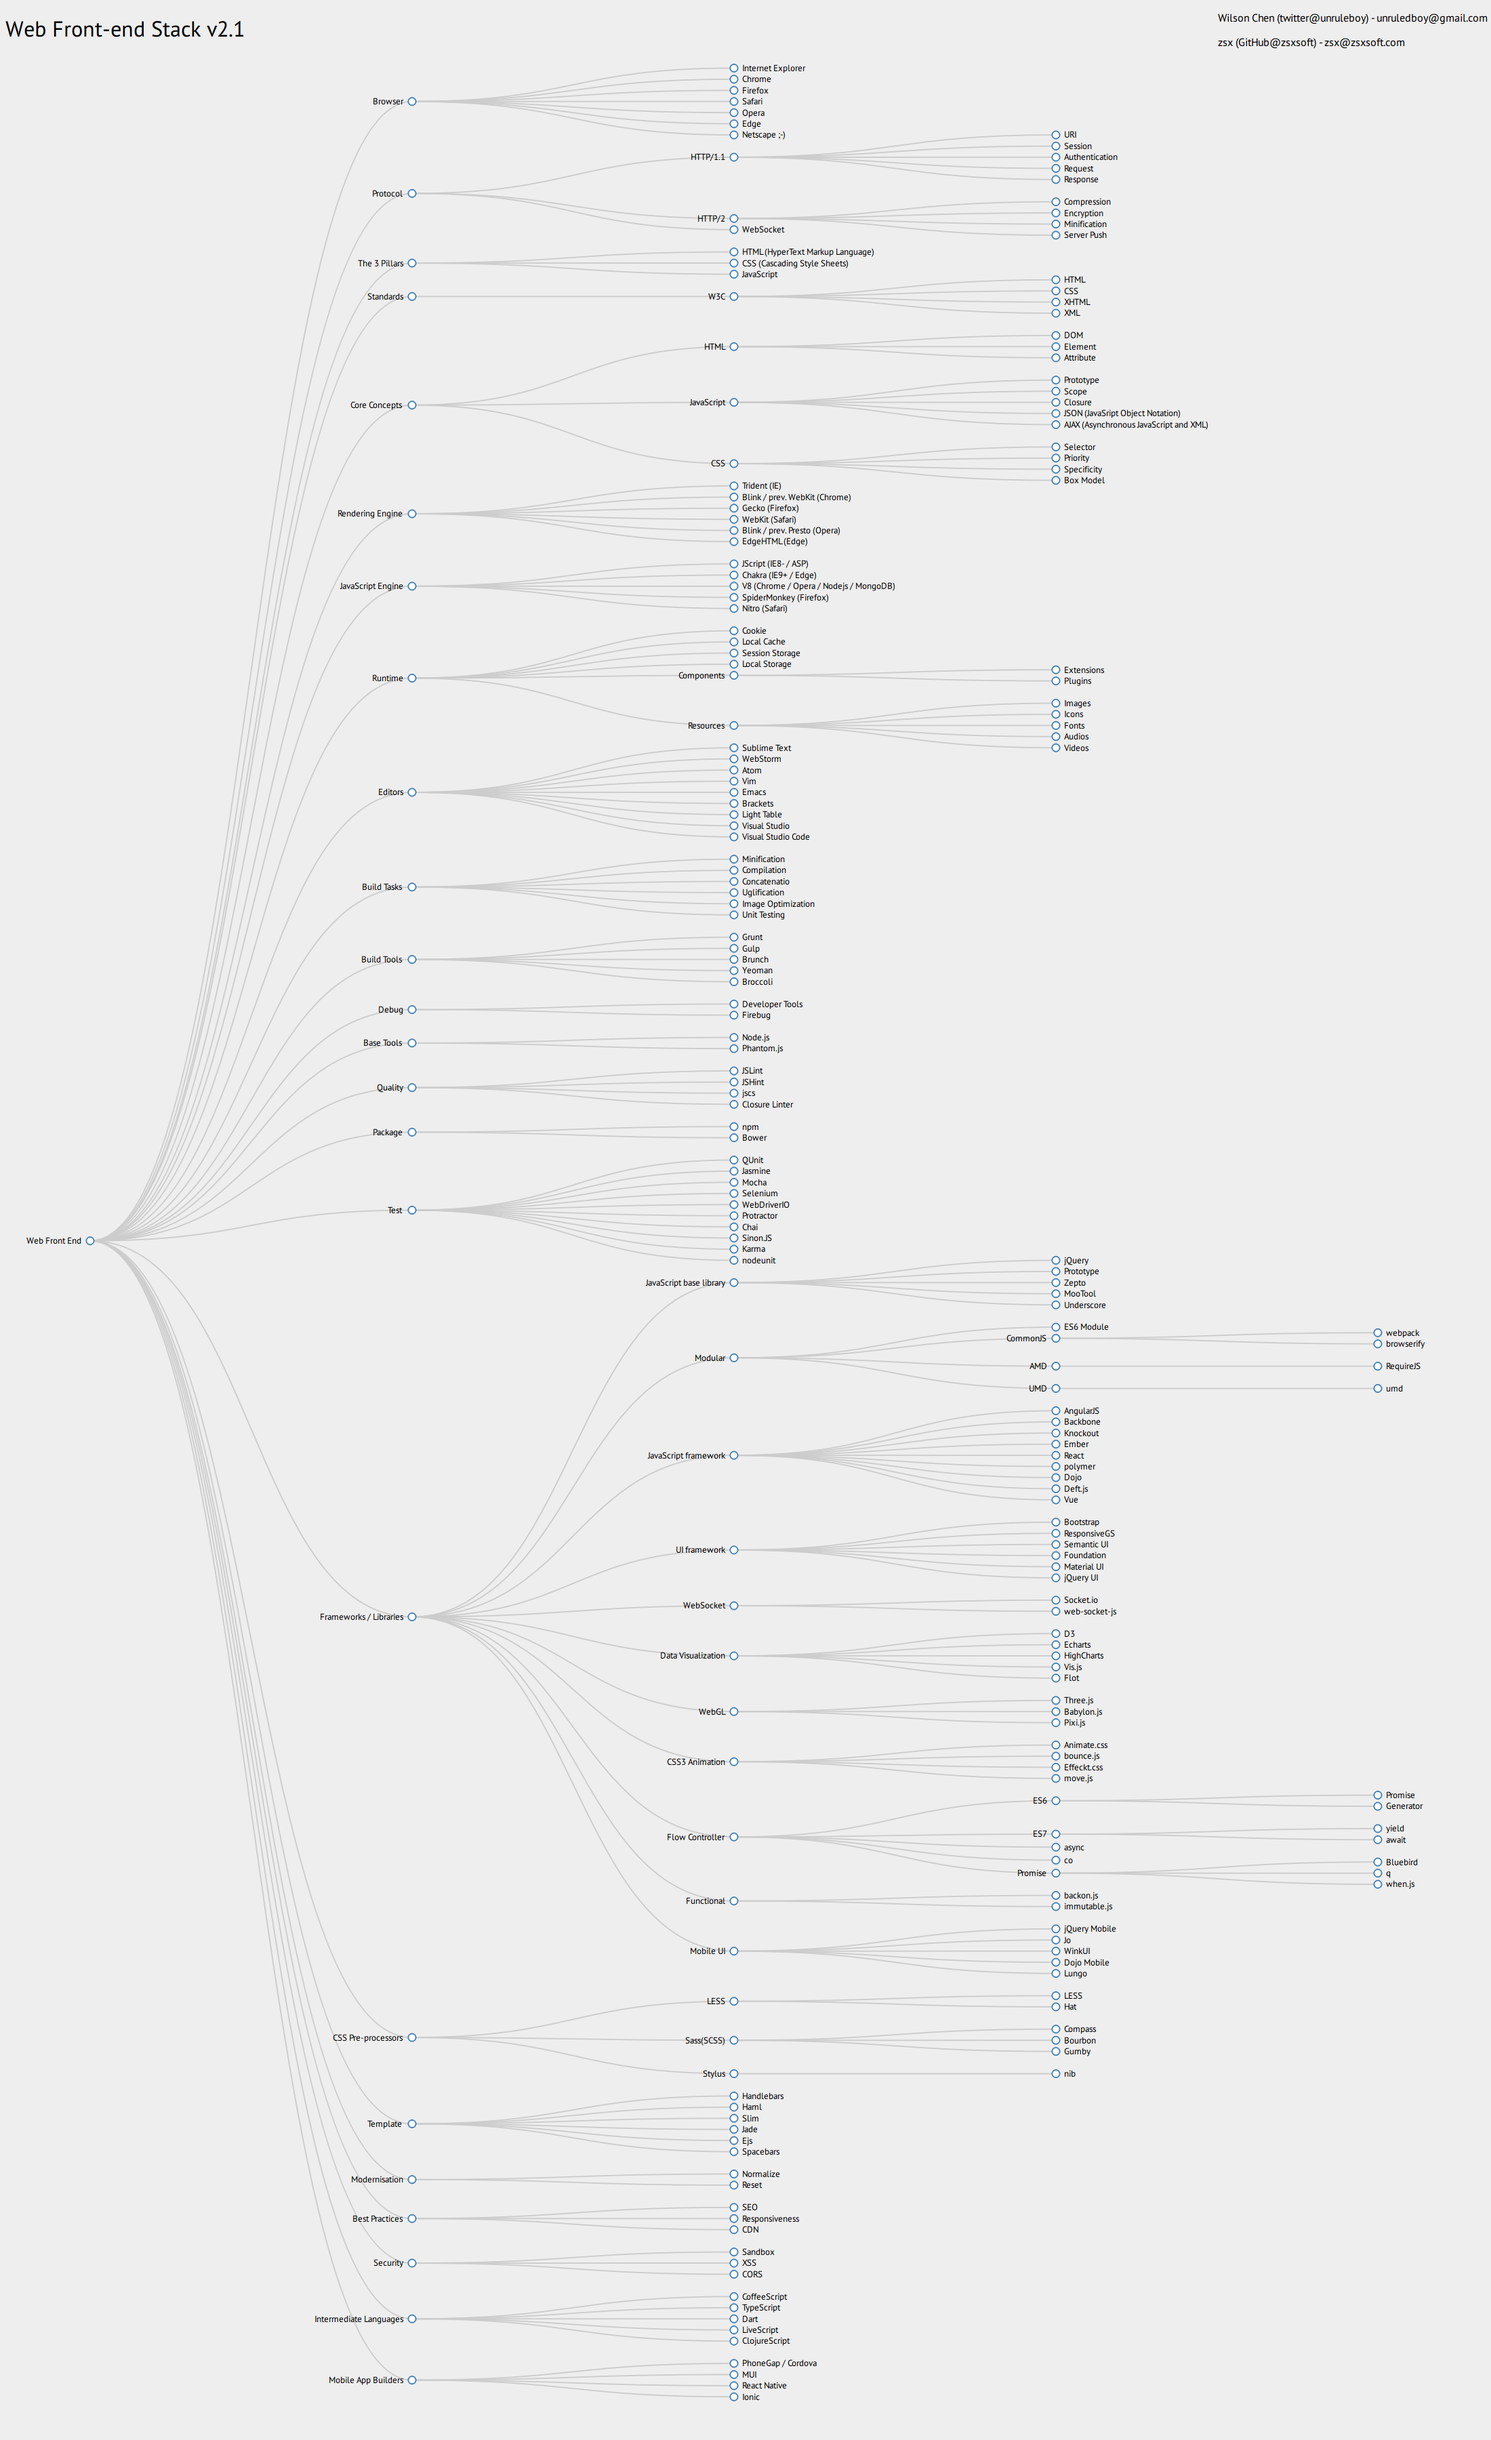
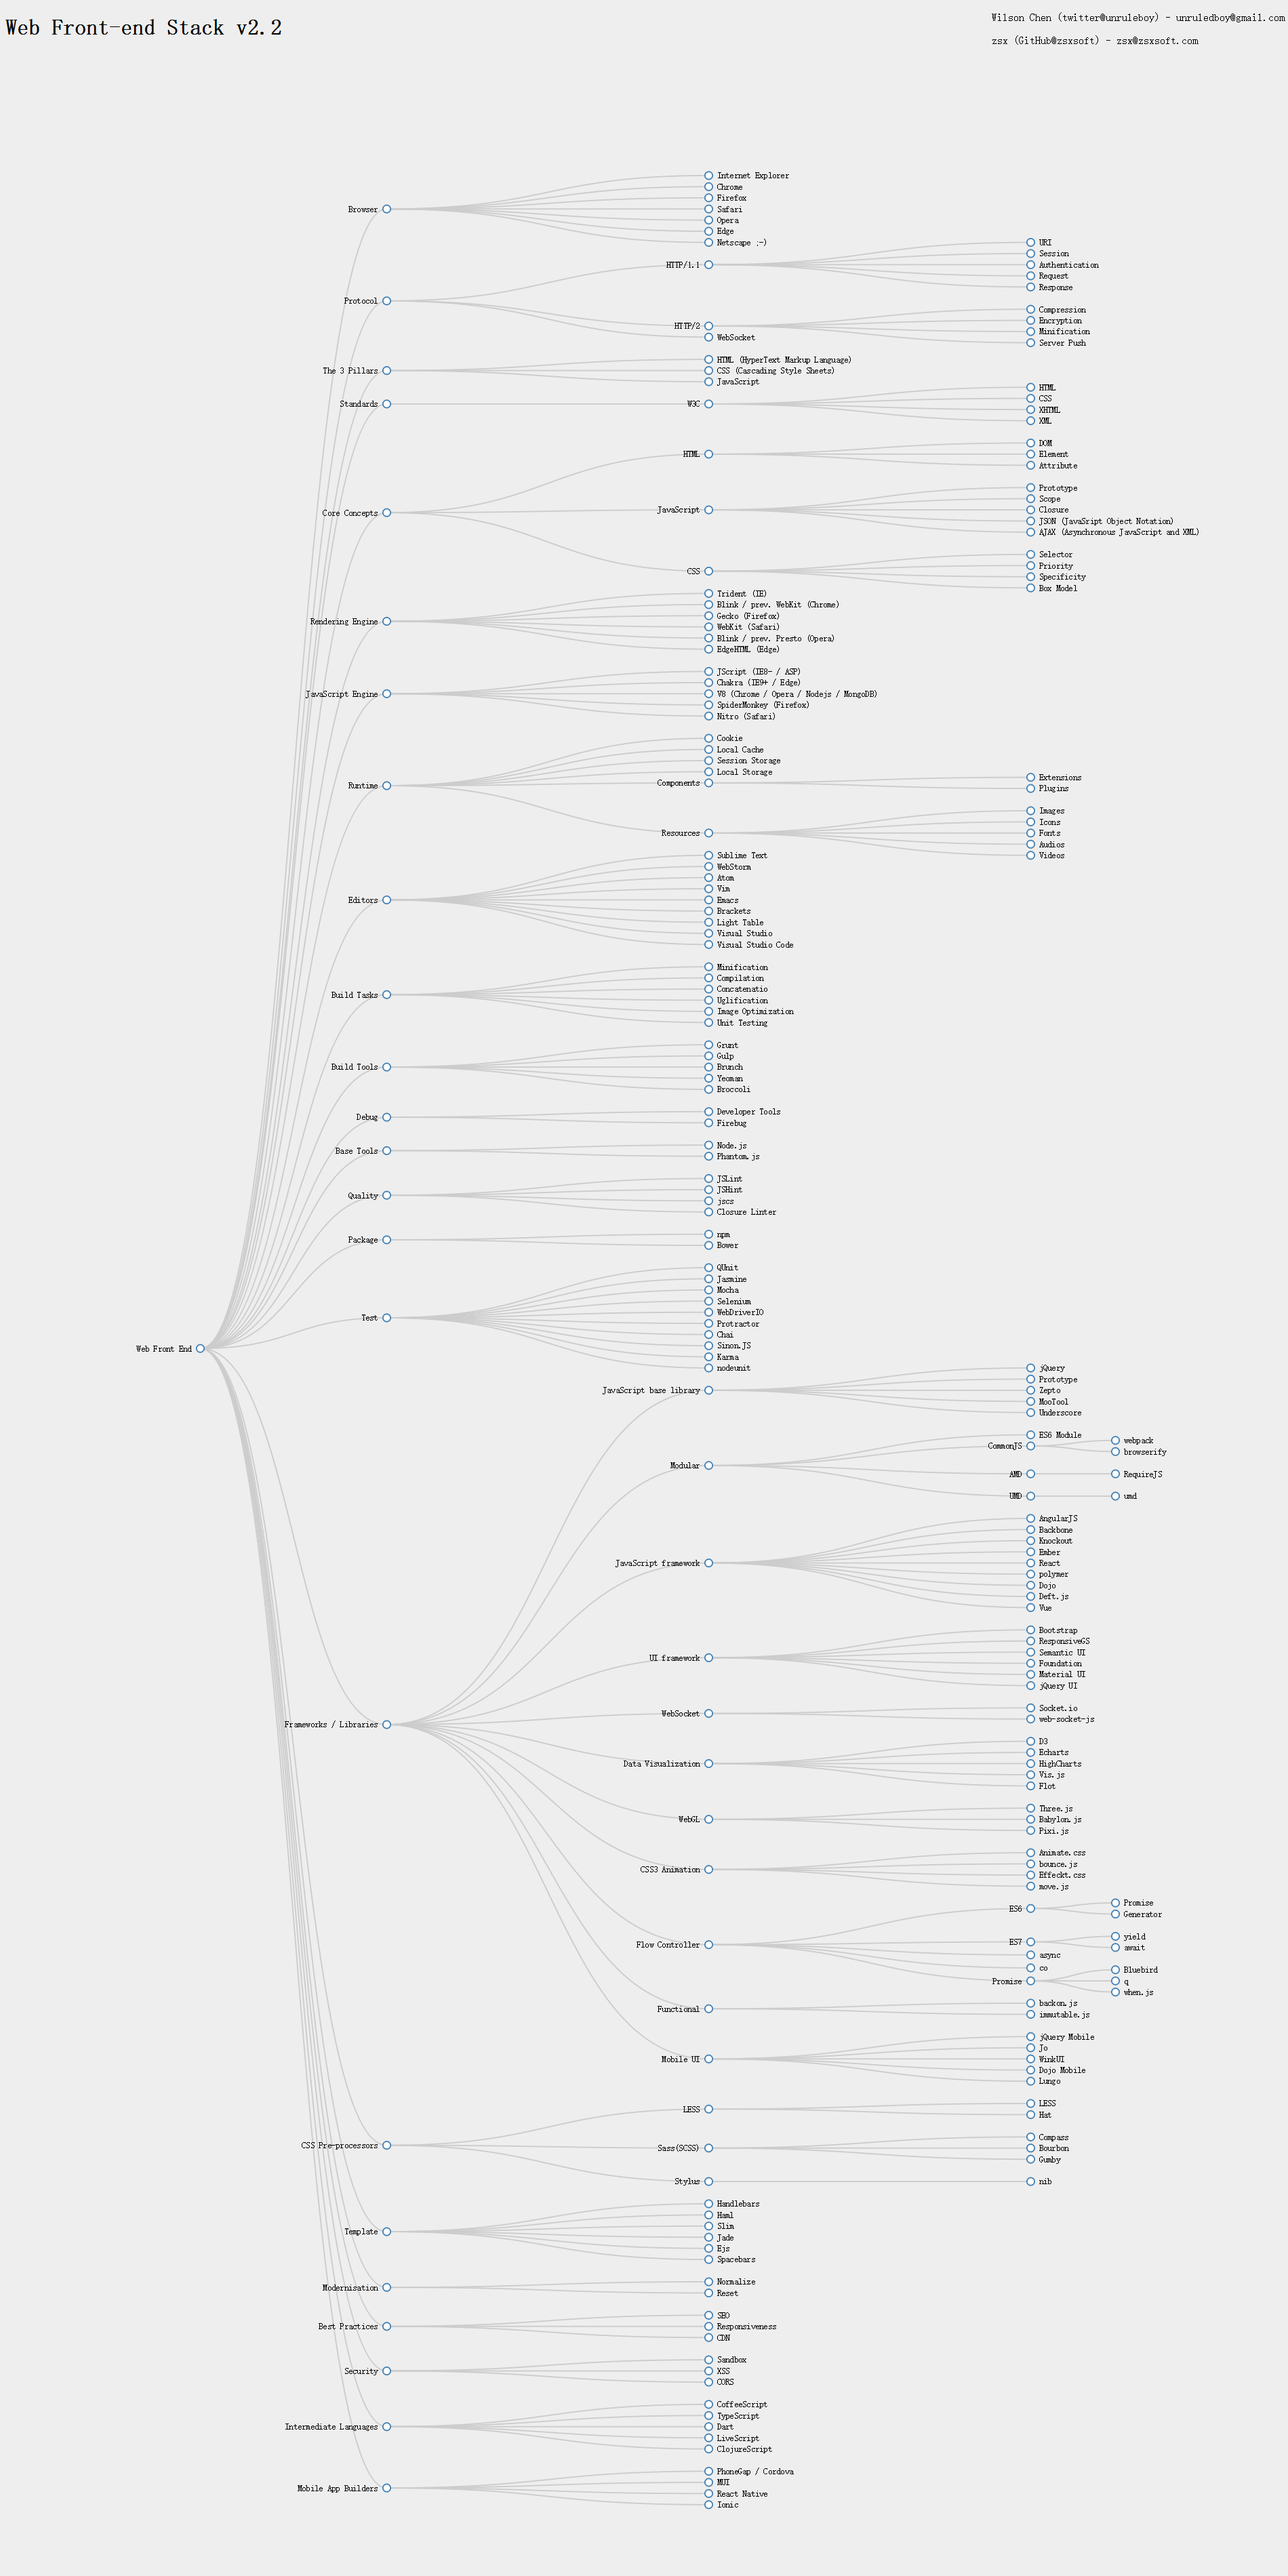
v2.2
added url for http/2, more compact preview

diff --git a/ux/dndTree.js b/ux/dndTree.js
@@ -5,7 +5,7 @@
 
         // Calculate total nodes, max label length
         var totalNodes = 0;
-        var maxLabelLength = 0;
+        var maxLabelLength = [];
         // variables for drag/drop
         var selectedNode = null;
         var draggingNode = null;
@@ -32,28 +32,30 @@
 
         // A recursive helper function for performing some setup by walking through all nodes
 
-        function visit(parent, visitFn, childrenFn) {
+        function visit(parent, visitFn, childrenFn, depth) {
             if (!parent) return;
 
-            visitFn(parent);
+            visitFn(parent, depth);
 
             var children = childrenFn(parent);
             if (children) {
                 var count = children.length;
+				var d = depth + 1;
                 for (var i = 0; i < count; i++) {
-                    visit(children[i], visitFn, childrenFn);
+                    visit(children[i], visitFn, childrenFn, d);
                 }
             }
         }
 
         // Call visit function to establish maxLabelLength
-        visit(treeData, function(d) {
+        visit(treeData, function(d, depth) {
             totalNodes++;
-            maxLabelLength = Math.max(d.name.length, maxLabelLength);
-
+            if (maxLabelLength[depth] == undefined)
+                maxLabelLength[depth] = 0;
+            maxLabelLength[depth] = Math.max(d.name.length, maxLabelLength[depth]);
         }, function(d) {
             return d.children && d.children.length > 0 ? d.children : null;
-        });
+        }, 0);
 
 
         // sort the tree according to the node names
@@ -378,7 +380,11 @@
 
             // Set widths between levels based on maxLabelLength.
             nodes.forEach(function(d) {
-                d.y = (d.depth * (maxLabelLength * 10)); //maxLabelLength * 10px
+                var labelLength = 0;
+                for (var j = 0; j <= d.depth; j++) {
+                    labelLength += maxLabelLength[j];
+                }
+                d.y = labelLength * 10; //maxLabelLength * 10px
                 // alternatively to keep a fixed scale one can set a fixed depth per level
                 // Normalize for fixed-depth by commenting out below line
                 // d.y = (d.depth * 500); //500px per level.

diff --git a/ux/WebFrontEndStack.htm b/ux/WebFrontEndStack.htm
@@ -94,7 +94,7 @@
     <div class="container">
         <header>
             <div class="left">
-                <h1><a href="https://github.com/unruledboy/WebFrontEndStack" target="_blank">Web Front-end Stack v2.1</a></h1>
+                <h1><a href="https://github.com/unruledboy/WebFrontEndStack" target="_blank">Web Front-end Stack v2.2</a></h1>
             </div>
             <div class="right">
                 <p><a href="http://github.com/unruledboy">Wilson Chen (twitter@unruleboy) - unruledboy@gmail.com</a></p>

diff --git a/index.js b/index.js
@@ -12,8 +12,8 @@ var queueReady = ["server"];
 var port = process.env.PORT || 3000;
 var httpServer = "http://127.0.0.1:" + port + "/";
 
-var pageWidth = 2200; // Magic number!
-var pageHeight = 3600;
+var pageWidth = 1900; // Magic number!
+var pageHeight = 3800;
 
 String.prototype.repeat = function(count) {
     return new Array(count + 1).join(this);

diff --git a/README.md b/README.md
@@ -75,7 +75,7 @@ https://rawgit.com/unruledboy/WebFrontEndStack/master/ux/WebFrontEndStack.htm
 			- Authentication
 			- Request
 			- Response
-		- HTTP/2
+		- [HTTP/2](https://en.wikipedia.org/wiki/HTTP/2)
 			- Compression
 			- Encryption
 			- Minification
